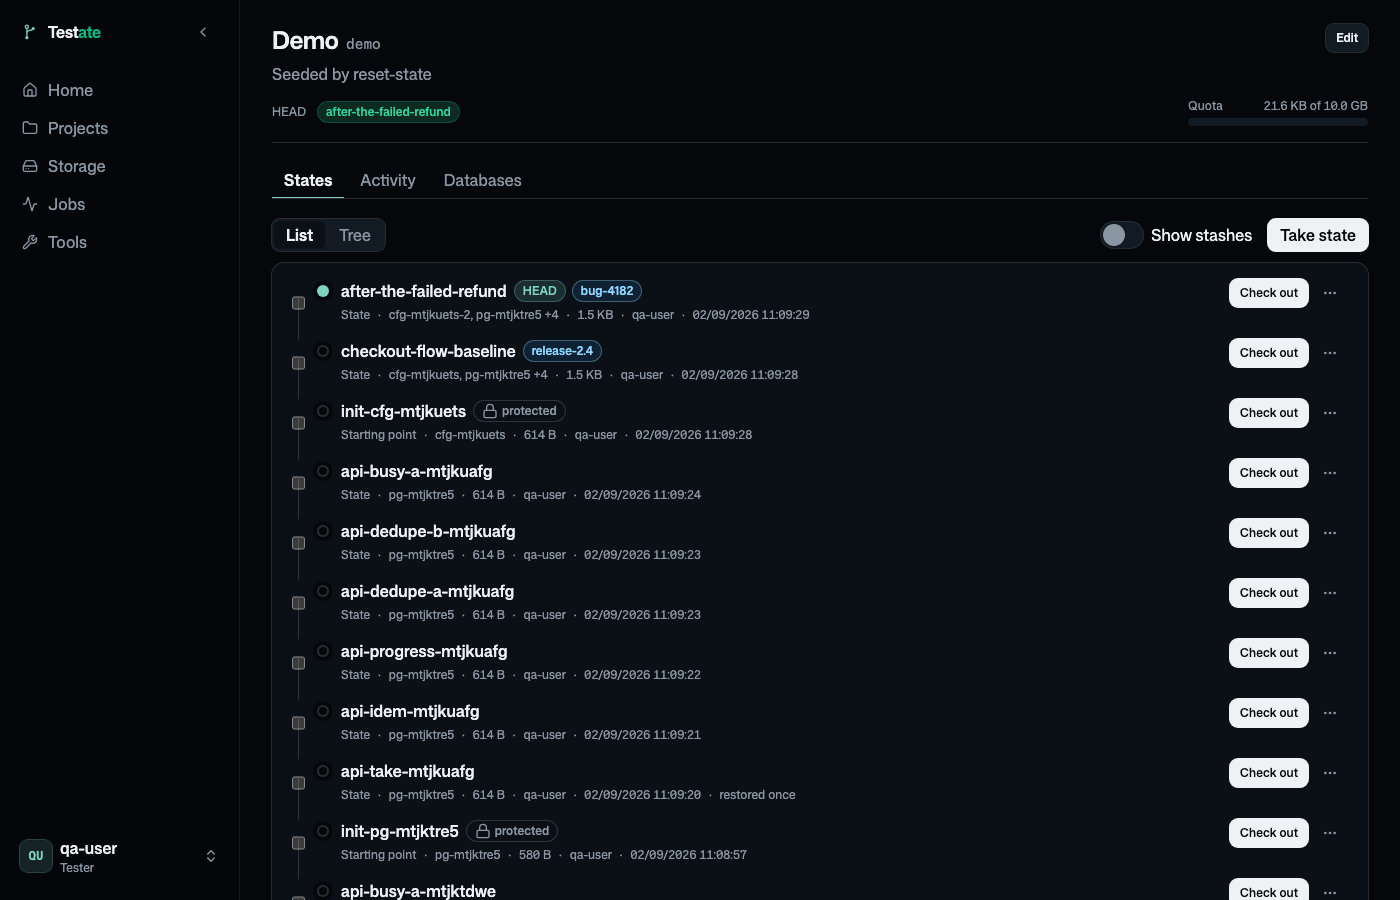
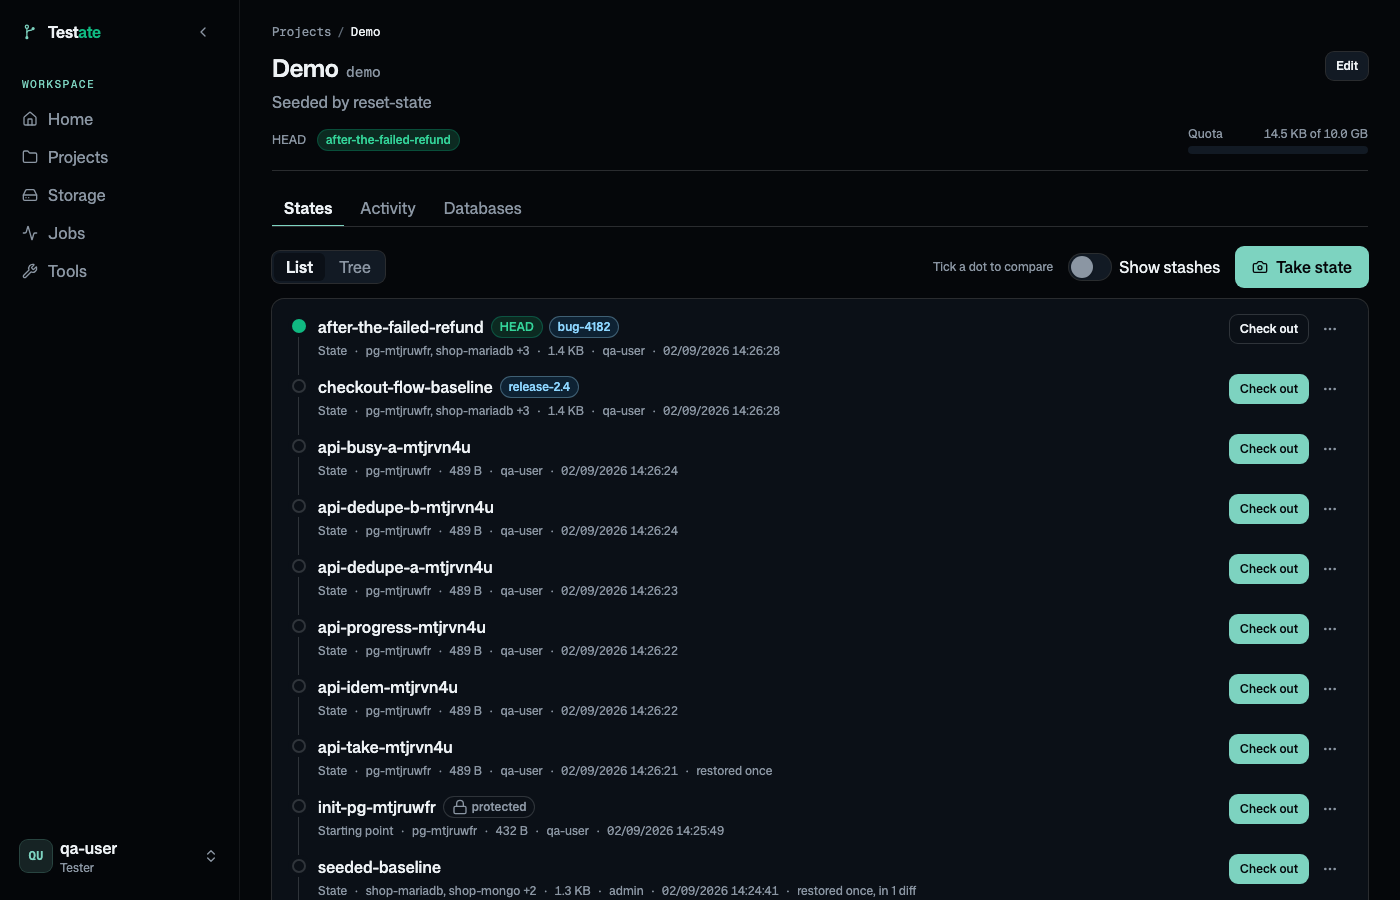
fix(states): the row follows HEAD's modified flag, and the README shows it
The project view read head.dirty for its own badge but never handed it
to the states list, so after "Check for changes" the header said
modified while the row still read HEAD with a quiet Check out.
Verified against the running app: an outside UPDATE in Postgres, then
Check for changes, and the row badge reads "HEAD · modified" with the
button teal again. Screenshots retaken; the handover notes the list's
one blind spot, a state created after the list loaded.

diff --git a/apps/web/src/features/project/project.view.tsx b/apps/web/src/features/project/project.view.tsx
@@ -117,6 +117,7 @@ export default function ProjectView(props: { slug: string }): JSX.Element {
             slug={props.slug}
             headStateId={presenter.overview.value().project.head.state_id}
             headUnknown={presenter.overview.value().project.head.status === "unknown"}
+            headDirty={presenter.overview.value().project.head.dirty}
             onChanged={() => presenter.overview.refresh()}
           />
         </Match>

diff --git a/docs/HANDOVER.md b/docs/HANDOVER.md
@@ -379,6 +379,11 @@ reads from `docs/index.html`'s palette. What a next agent needs:
   its last progress fraction (67%) for good; a backup's phase read `tar` and a deletion's `gc`; a
   footer said "1 file stores"; the sessions table printed `::ffff:127.0.0.1` and the role key; a
   row's Details, Counters and Retry wrapped onto two lines. Each is its own commit.
+- **Left open on purpose, too:** the states list does not learn about a state created after it
+  loaded unless a row is already `creating` (`refreshWhileBusy` follows rows, not the project).
+  A screen opened in the gap between "init snapshot queued" and the job inserting its row sits
+  stale, which is why `adapter.e2e.ts` now waits through the API before it navigates. A project
+  job stream, or a refresh on focus, would close it.
 - **Left open on purpose.** The two Solid diagnostics on the dialog dismiss path (§8b) are still
   filtered in `e2e/admin.e2e.ts`: the redesign touched dialog classes only, and the thirteen-site
   handler change is the same job it was. The `followJob` leak listed under "owed" is done: the
